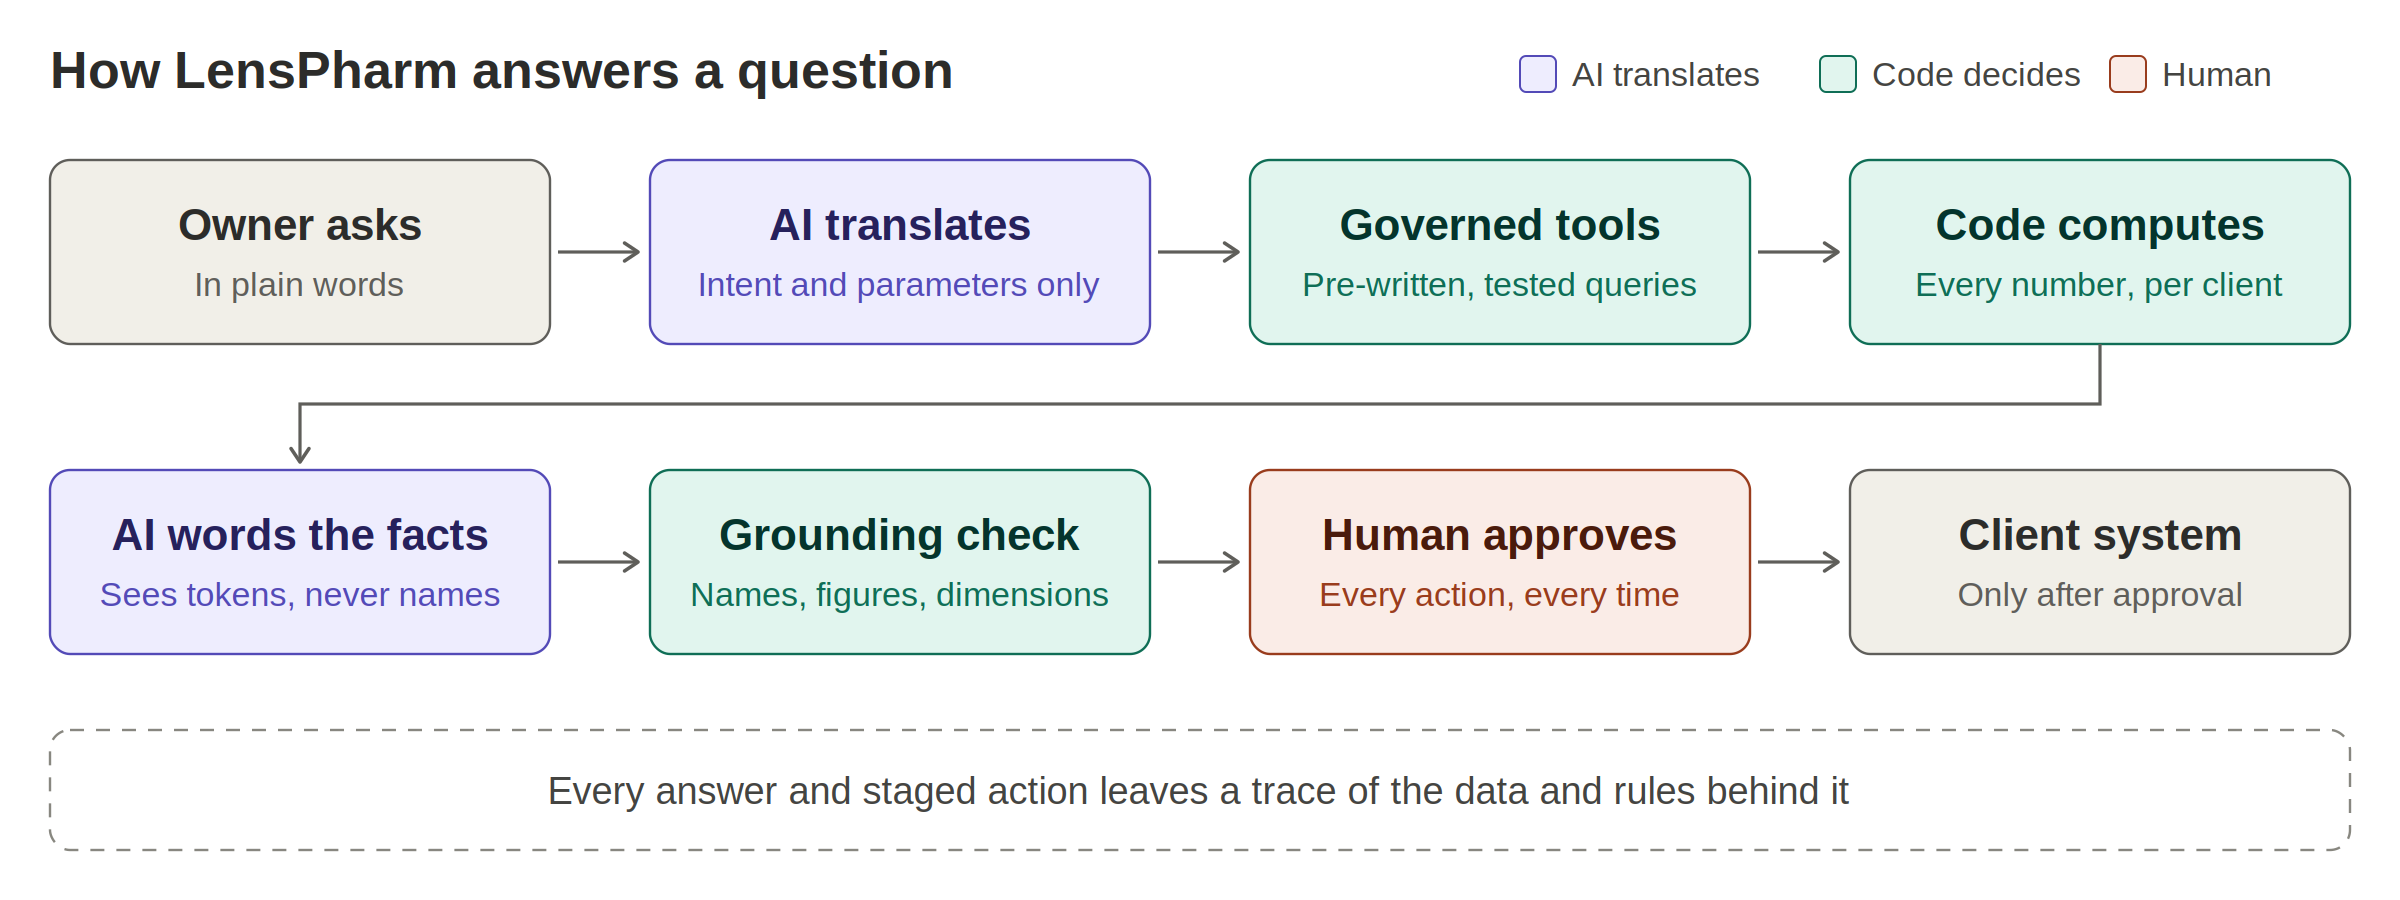
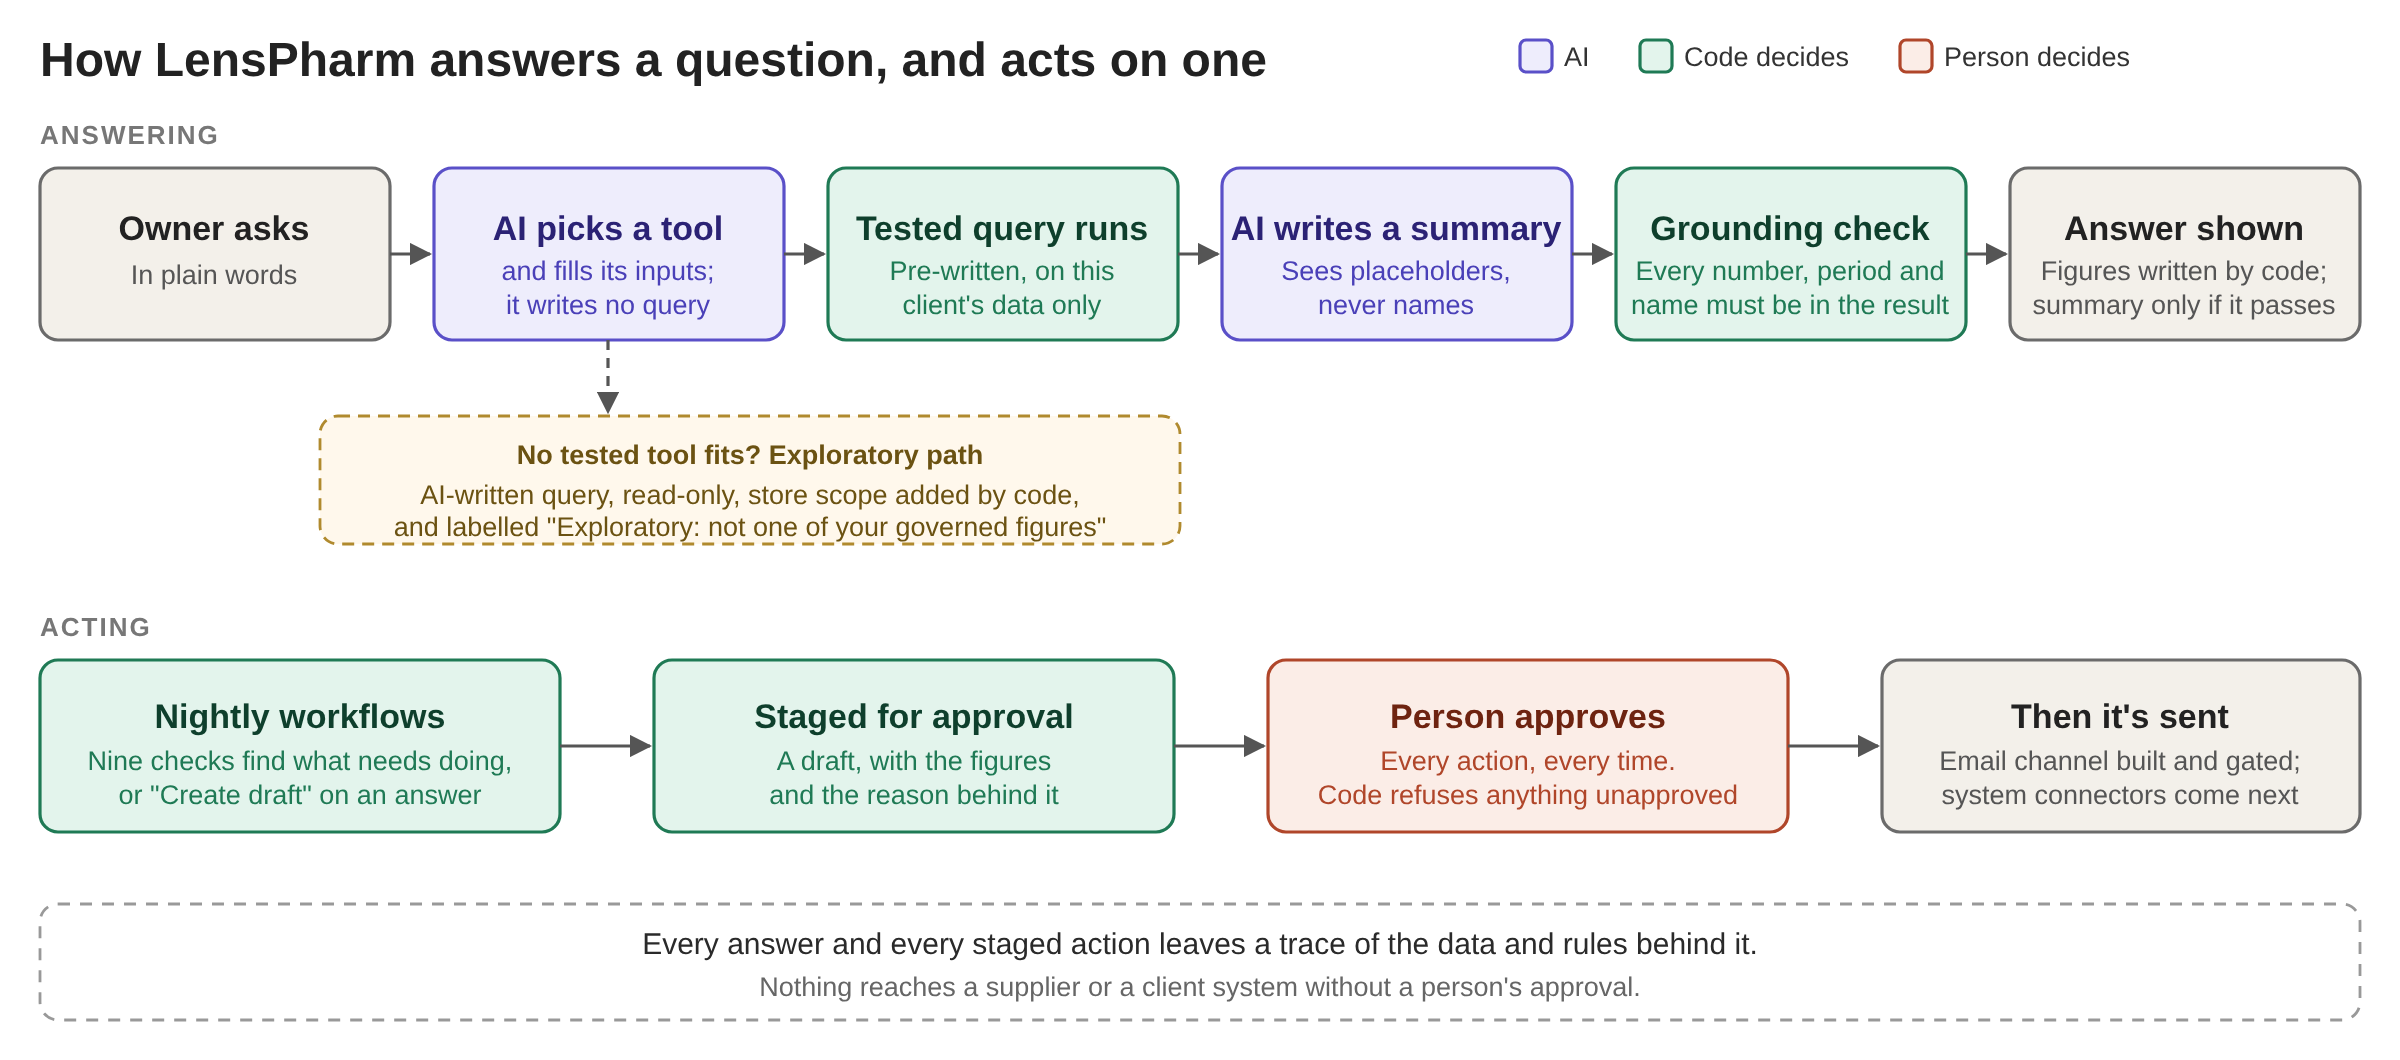
Restructure case study: problem, product, architecture, evidence, decisions
Claude-Session: https://claude.ai/code/session_01Ab9Hxctk4vqedruUbyvg4s

diff --git a/README.md b/README.md
@@ -6,86 +6,85 @@ LensPharm is the first vertical of [Squadera](https://squadera.io), an AI operat
 
 Built by **Sonny Trikha**, Product Lead and Co-Founder, Squadera. [LinkedIn](https://linkedin.com/in/sonnytrikha)
 
-> The source code is private because it serves a live client. This page explains what the product does, the decisions behind it, and how it is measured. I'm happy to walk through a live demo on a synthetic tenant. Images are product designs using figures from that synthetic tenant; no client data is shown.
+> The source code is private because it serves a live client. This page covers the problem, the product, the architecture, the evidence and the decisions behind it. Images are product designs using figures from a synthetic demo tenant; no client data is shown. I'm happy to walk through a live demo on that tenant.
+
+**On this page:** [The problem](#1-the-problem) · [The product](#2-the-product) · [The architecture](#3-the-architecture) · [The evidence](#4-the-evidence) · [The decisions](#5-the-decisions)
 
 ---
 
-## The problem
+## 1. The problem
 
 Pharmacy groups running several stores hold years of sales, stock, purchasing and rebate data, spread across systems that don't talk to each other. Owners can't afford a data team, can't wait weeks for a report, and don't trust a dashboard they can't check.
 
 So margin leaks quietly: stock that stopped selling, rebates nobody chased, prices drifting outside target, and spend concentrated with one supplier without anyone noticing.
 
-LensPharm gives the owner one view across every store, each compared with the typical store, with the strongest and weakest called out and an action against each.
+## 2. The product
+
+One view across every store, each compared with the typical store, with the strongest and weakest called out and an action against each.
 
 ![Every store compared with the typical store](stores.gif)
 
-## What it does
-
 - **Ask.** An owner asks a question in plain words and gets an answer in seconds, with every figure traceable to its source and a short "How this was answered" trail underneath.
-- **Workflows.** Nine operational workflows (purchase orders, rebate chasing, dead stock, supplier concentration, pricing, department margin, seasonal demand and more) check the data and stage recommended actions.
-- **Approvals.** Nothing is written back to a client system until a person approves it.
+- **Workflows.** Nine operational workflows (purchase orders, rebate chasing, dead stock, supplier concentration, pricing, department margin, seasonal demand and more) check the data each night and stage recommended actions.
+- **Approvals.** Nothing leaves the platform until a person approves it.
 
 ![An owner asks a question and gets a checkable answer](ask.gif)
 
-Every answer shows what it was computed from: the data, the period and the definition used, plus a way for the owner to flag it as helpful or incorrect. The recommendation becomes a draft for approval, never an action on its own.
+Every answer shows what it was computed from: the data, the period and the definition used, plus a way to flag it as helpful or incorrect. A recommendation becomes a draft for approval, never an action on its own.
 
 ![A staged reorder waiting for the owner's approval](workflow.png)
-
-A workflow shows what it found, stages the actions with their values, and waits for the owner to approve, edit or decline. The trace line records exactly what it was computed from and when.
 
 <p align="center"><img src="mobile-today.png" alt="Today on a phone, with decisions waiting for approval" width="280"></p>
 
 The same decisions work on a phone, so an owner can approve from the shop floor.
 
-## How it works
+## 3. The architecture
 
-![How LensPharm answers a question](decision-spine.png)
+![How LensPharm answers a question, and acts on one](decision-spine.png)
 
-The model is an interpreter, not an oracle. It turns the question into a request for a governed tool, and it puts the result into words. Everything in between, every number, filter and comparison, is computed by tested code against the client's own data.
-
-## The decisions behind it
-
-| Decision | Why | What we traded for it |
-|---|---|---|
-| Code computes every number; AI only translates and words | An AI-written query can be fluent and wrong | Some questions are refused rather than guessed |
-| AI chooses from a registry of pre-written, tested tools | Removes a whole class of error by construction | Fewer question shapes, each one provable |
-| Client data is tokenised before any model call | The model never sees names or identifying values | More work to rebuild exactly what the owner saw |
-| Every client has its own isolated database | Regulated data stays separated by design | Higher operating cost per client |
-| A person approves every action | A busy owner should never act on an unchecked recommendation | Slower than full automation, deliberately |
-| A standard data format per industry, with a thin adapter | A new vertical reuses the discipline, not only the code | Each vertical still needs its own domain rules |
-| Every answer and staged action leaves a trace | You can only improve what you can see | Engineering and storage effort up front |
-
-## Built to grow
+The model is an interpreter, not an oracle. It picks a tested tool and fills in its inputs, then puts the result into words. Every number, filter and comparison in between is computed by code against the client's own data. Questions no tested tool covers take a separate exploratory path, and the answer is labelled as exploratory so the owner knows it isn't one of their governed figures.
 
 ![One discipline, many verticals](platform-pattern.png)
 
-A second vertical, [LensCon](https://github.com/sonny-stack/lenscon-case-study), applies the same discipline to multi-entity building groups, joining accounting and job management data into one view; it is a working prototype on synthetic data. The lesson was useful: what carried across cleanly was the discipline, not the code. That is why the rules are written down once and checked on every release.
+The same design carries to other industries: one standard data format per industry, a thin adapter per source system, and the same rules for how numbers are computed, worded and approved. A second vertical, [LensCon](https://github.com/sonny-stack/lenscon-case-study), applies it to multi-entity building groups.
 
-## How it's measured
+**Stack:** Python and FastAPI, React, a separate DuckDB database per client, on AWS in Sydney. Claude through a provider layer, with credentials kept off the application host. Built with two AI coding agents: one builds, the other independently verifies, releases and deploys. Deploys, anything client-facing and priorities stay with me.
+
+## 4. The evidence
 
 Two questions, always together: **is it right, and is it used.**
 
-- **Coverage on real questions.** Questions owners actually asked are replayed against production configuration to see how many the governed path answers. On 154 real questions, 66% were answered on the governed path, and that figure now sets the build order.
-- **Defects are logged with a severity vocabulary**, so recurring problems show up as patterns rather than anecdotes.
-- **A fix counts as done only when it is shown working on production** for the exact case reported, with every screen that displays that value checked.
+| What is checked | How |
+|---|---|
+| How many real questions the tested path answers | 154 questions owners actually asked, replayed against production settings: **66% answered on the governed path**. I published that figure after discarding a flattering earlier sample, and it now sets the build order. |
+| The summary doesn't invent anything | A grounding check confirms every number, period and name in the AI's summary appears in the result. If anything fails, the summary is dropped, the figures still show, and the drop is recorded. |
+| The AI never sees client names | Names become placeholders before every model call. A check at the edge of the system blocks any placeholder from reaching the screen. |
+| No action without approval | The code that sends refuses any action not marked approved. The email channel stays in dry-run until it is deliberately switched on for a client. |
+| Fixes are real | A fix counts as done only when it is shown working on production for the exact case reported, with every screen that displays that value checked. |
+| Problems show up as patterns | Defects are logged with a fixed severity vocabulary, so recurring issues surface as patterns rather than anecdotes. |
 
 ![A three-month forecast with its measured error band](forecasting.png)
 
-Forecasts carry their measured error, so the owner sees how far to trust the line before acting on it. Here the insight turns the forecast into one decision: about $19,213 of stock sits beyond cover, with a clearance draft one click away for approval.
+Forecasts carry their measured error, so the owner sees how far to trust the line before acting on it.
 
-## How it's built
+## 5. The decisions
 
-- Python and FastAPI, React, DuckDB per client, on AWS in Sydney
-- Claude through a provider layer, with credentials kept off the application host
-- Built with two AI coding agents: one builds, the other independently verifies, releases and deploys. Deploys, anything client-facing and priorities stay with me.
+| Decision | Why | What it cost |
+|---|---|---|
+| Code computes every number; AI only translates and words | An AI-written query can be fluent and wrong | Some questions are refused rather than guessed |
+| AI chooses from pre-written, tested tools | Removes a whole class of error by construction | Fewer question shapes, each one provable |
+| Keep an exploratory path, but label it | Owners still get help on new questions, honestly marked | Two standards of answer to explain |
+| Client data is tokenised before any model call | The model never sees names or identifying values | More work to rebuild exactly what the owner saw |
+| Every client has its own database | Regulated data stays separated by design | Higher operating cost per client |
+| A person approves every action | A busy owner should never act on an unchecked recommendation | Slower than full automation, deliberately |
+| Every answer and staged action leaves a trace | You can only improve what you can see | Engineering and storage effort up front |
 
 ## What's next
 
 - A live connection to the pharmacy's point-of-sale and dispensing system, replacing exports
 - Approved actions executing through connectors into client systems
 - Deeper product-level answers and seasonal forecasting
-- A design refresh across the platform, and onboarding the next client
+- Onboarding the next client
 
 ---
 
